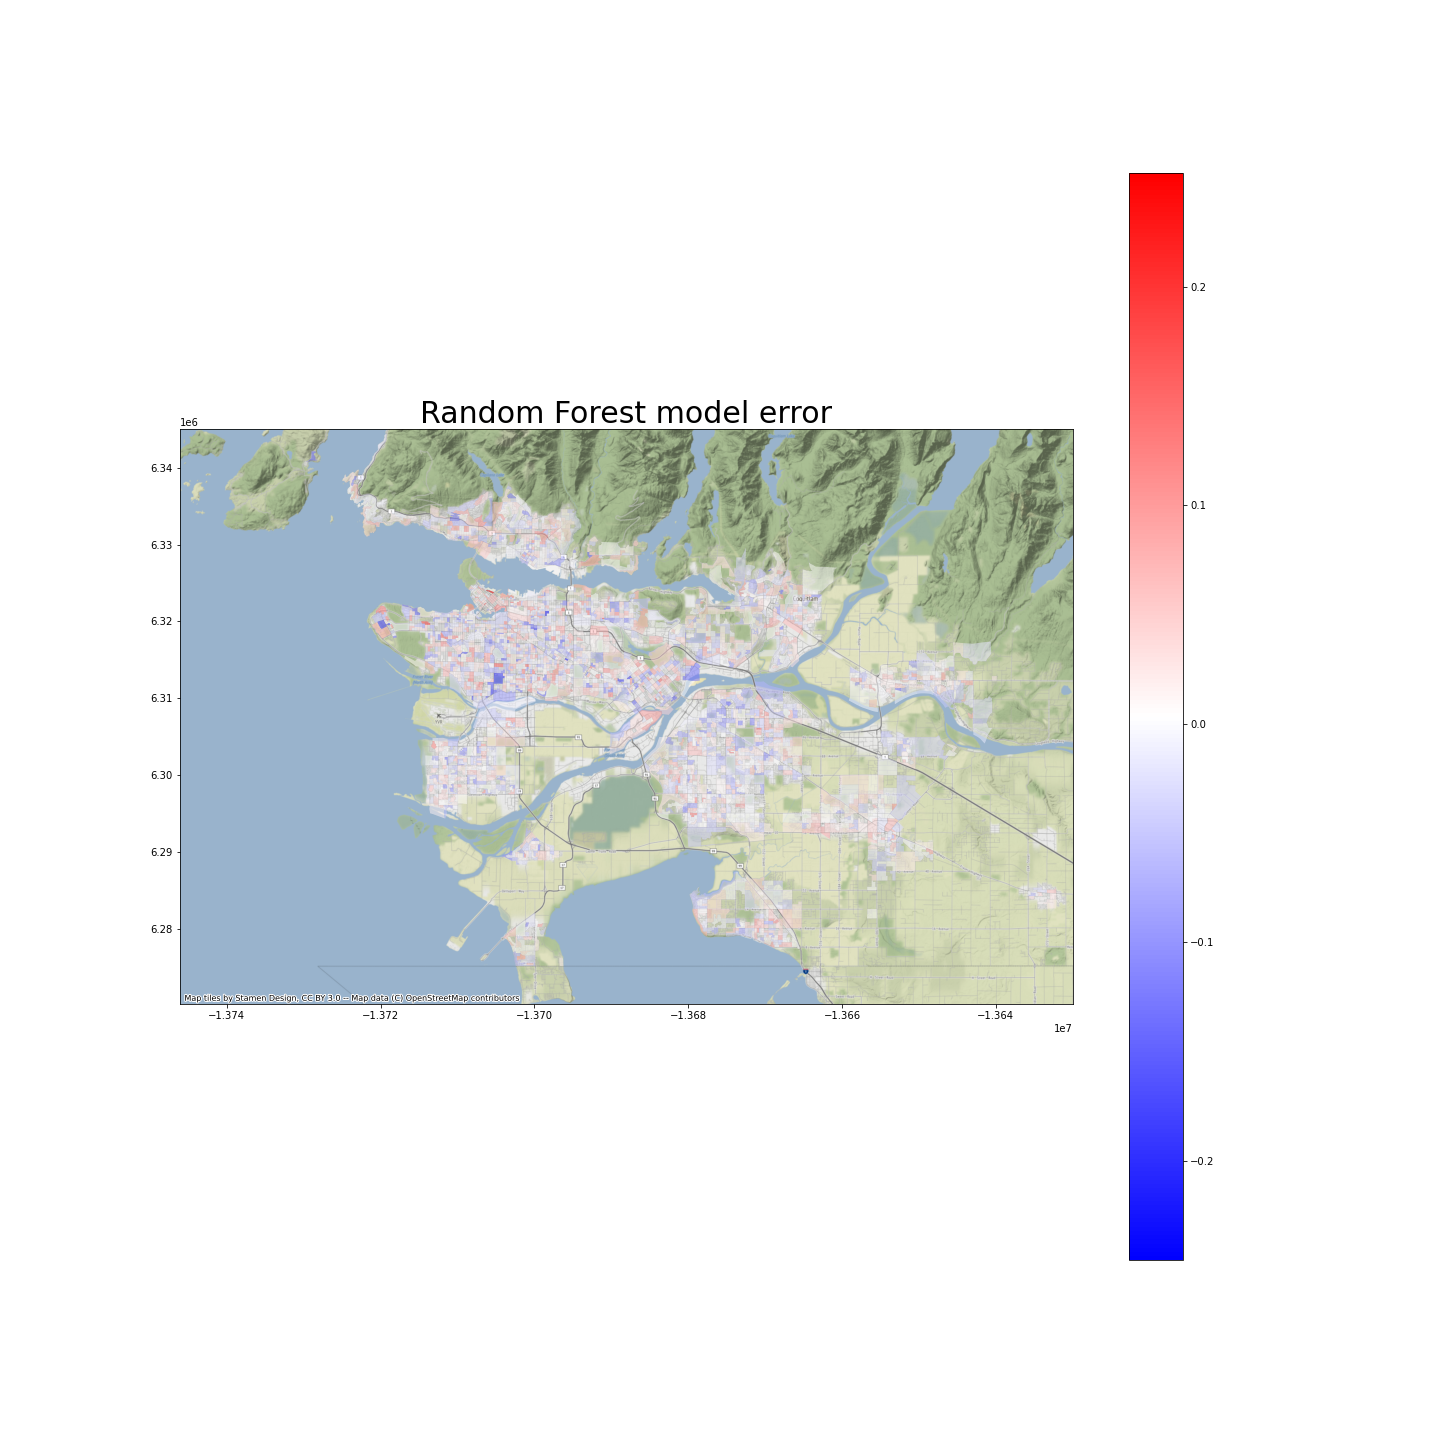
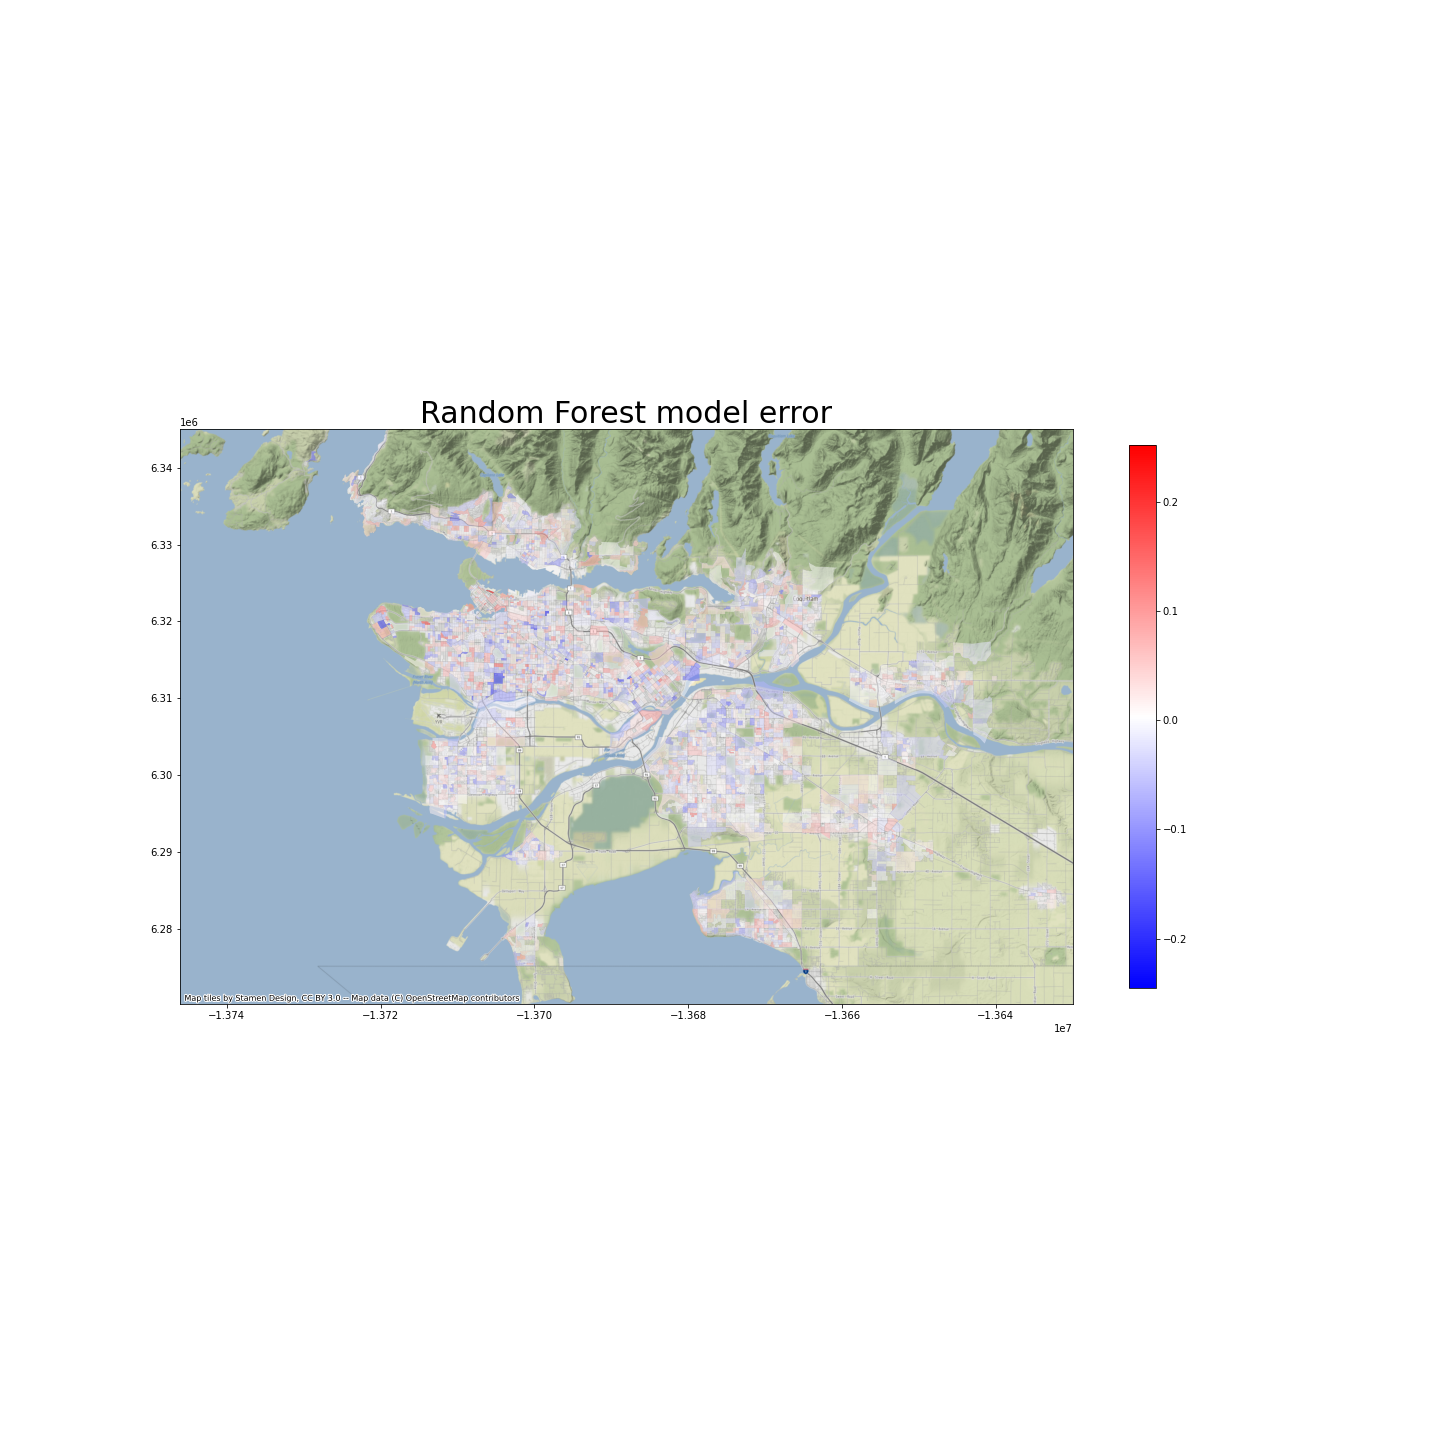
Adjust map colorbar size

Changed region(s): [[0.7812, 0.0938, 0.8438, 0.4688], [0.7812, 0.5312, 0.8438, 0.875]]

diff --git a/_posts/2020-12-18-Vancouver_transit4.md b/_posts/2020-12-18-Vancouver_transit4.md
@@ -233,30 +233,41 @@ Access to transit does seem to affect people's transit use, with all other varia
 
 Exactly how important are transit services and stops? In fact, the two models diverge to a certain degree. What we can be confident about for now, however, is that number of transit services per capita is among the 5% most important numeric features, and is related to transit use positively.
 
-# Decision recommendations
+# Policy recommendations
 
-How should our analyses inform decision makers? In the last section of this project, I will bring back the whole dataset and identify areas that GVA's transportation agency should pour its resources to. I will identify such areas in two ways:
+How should our analyses inform decision makers? In the last section of this project, I will bring back the whole dataset and identify areas that GVA's transportation agency should pour its resources to. Bearing in mind that the government's resources are limited and come from tax payers' money, we should assume that it can only increase access to transit for a limited number of neighborhoods. Therefore, the selected neighborhoods should be places where the same increase in transit access lead to the most **increase in proportion of people using transit**, which is defined as the following:
 
-(1) I will create a hypothetical dataset (`X_1`) where each DA's `NBA_services_PC` increases by a fixed percentage point (10% of average current NBA_services_PC across all DAs in GVA, or about 1.2 percentage points). I will then identify DAs where transit use rate increases the most, measured by percentage point increase.
+increase in proportion of people using transit = proportion of people using transit as predicted by the model, after increase in transit access - current proportion of people using transit as predicted by the model
 
-(2) I will create a hypothetical dataset (`X_2`) where each DA's `NBA_services_PC` increases by a fixed percentage (10%). I will then identify as a percentage of current transit use rate increases the most, measured by percentage increase.
+## Two scenarios
+I will specify two scenarios in which access to public transit services increases.
 
-## Scenario 1: services per capita increases by a fixed amount
+### Scenario 1
+
+(1) I will create a hypothetical dataset (`X_1`) where each DA's `NBA_services_PC` increases by a fixed amount (10% of average current NBA_services_PC across all DAs in GVA, or about 1.2 percentage points). I will then identify DAs where transit use rate increases the most, measured by percentage point increase.
 
 The following two maps identify DAs with top 10% percentage point increase in transit use if number of transit services per person increases by about 1.2 in the neighborhood area.
 
-<img src="{{ site.url }}{{ site.baseurl }}/images/Vancouver_transit4/plots/output_74_0.png" alt="Map: LASSO Scenario 1">
+<img src="{{ site.url }}{{ site.baseurl }}/images/Vancouver_transit4/plots/X_1_LASSO.png" alt="Map: LASSO Scenario 1">
 
-<img src="{{ site.url }}{{ site.baseurl }}/images/Vancouver_transit4/plots/output_75_0.png" alt="Map: Random Forest Scenario 1">
+<img src="{{ site.url }}{{ site.baseurl }}/images/Vancouver_transit4/plots/X_1_rf.png" alt="Map: Random Forest Scenario 1">
 
 Are our predictions of increase in transit use similar between the two models? I have calculated the Pearson correlation coefficient between two sets of predictions, which stands at 0.768. This result is satisfactory.
 
-## Scenario 2: services per capita increases by a fixed percent (10%)
+### Scenario 2
+
+(2) I will create a hypothetical dataset (`X_2`) where each DA's `NBA_services_PC` increases by a fixed percentage (10%) of current `NBA_services_PC`. I will then identify as a percentage of current transit use rate increases the most, measured by percentage increase.
 
 The following two maps identify DAs with top 10% percentage point increase in transit use if number of transit services per person increases by 10 percent of the current value, in the neighborhood area.
 
-<img src="{{ site.url }}{{ site.baseurl }}/images/Vancouver_transit4/plots/output_80_0.png" alt="Map: LASSO Scenario 2">
+<img src="{{ site.url }}{{ site.baseurl }}/images/Vancouver_transit4/plots/X_2_LASSO.png" alt="Map: LASSO Scenario 2">
 
-<img src="{{ site.url }}{{ site.baseurl }}/images/Vancouver_transit4/plots/output_81_0.png" alt="Map: Random Forest Scenario 2">
+<img src="{{ site.url }}{{ site.baseurl }}/images/Vancouver_transit4/plots/X_2_rf.png" alt="Map: Random Forest Scenario 2">
 
 The two models' predictions, under scenario 2, are also quite similar. I have calculated the Pearson correlation coefficient between two sets of predictions, which stands at 0.767.
+
+## Impact evaluation
+
+If the public transportation authority of GVA does indeed increase service in the key areas, how much increase of transit use can we expect? A more fundamental question is that, although increase in access to public transit does have a positive impact on use of transit in commuting, how many DAs in GVA should be prioritized? The following analyses show that the law of dinimishing returns hold here, and the more DAs we target, the less increase in transit use we will see. However, as compared to the baseline scenario where we increase transit services in randomly selected DAs, a policy based on our models still results in far more increase in overall transit use in GVA overall.
+
+###
